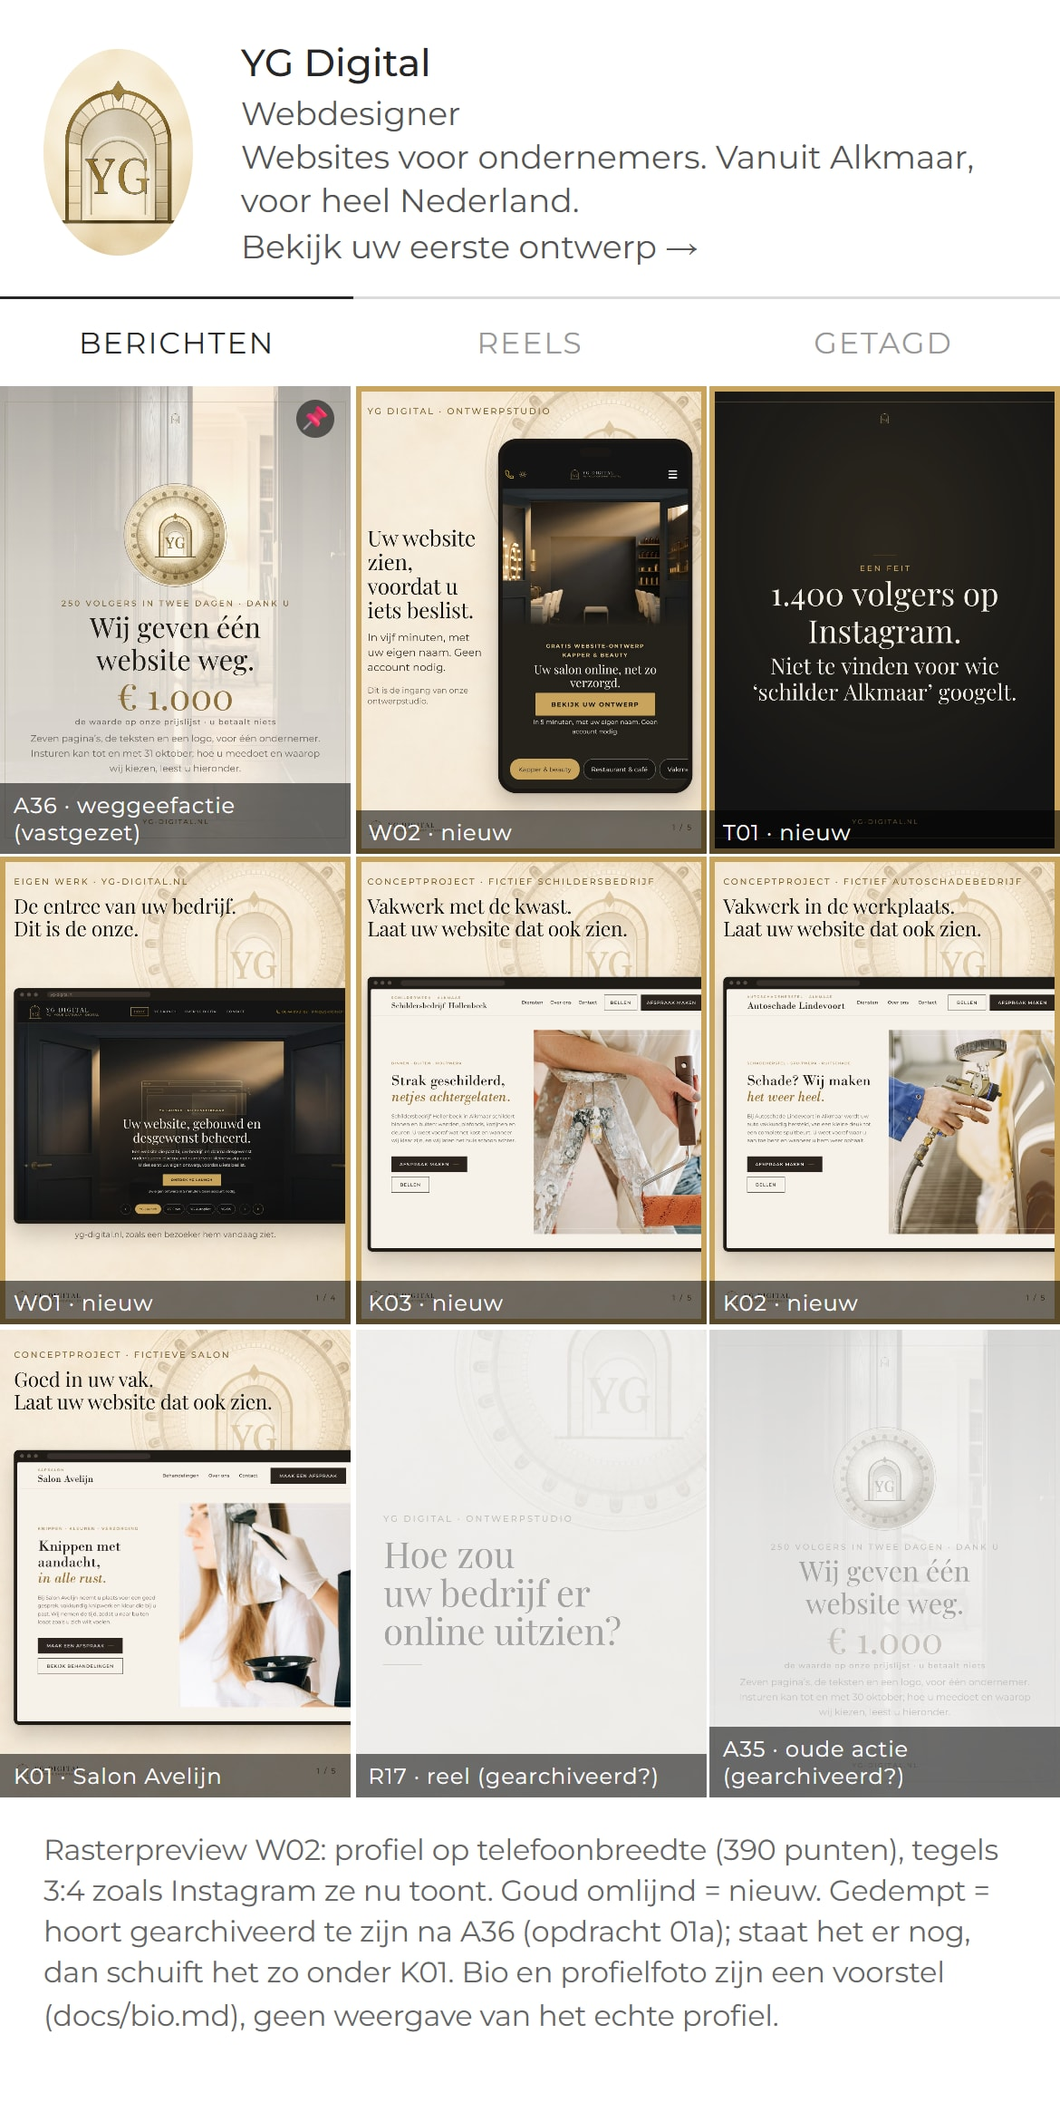
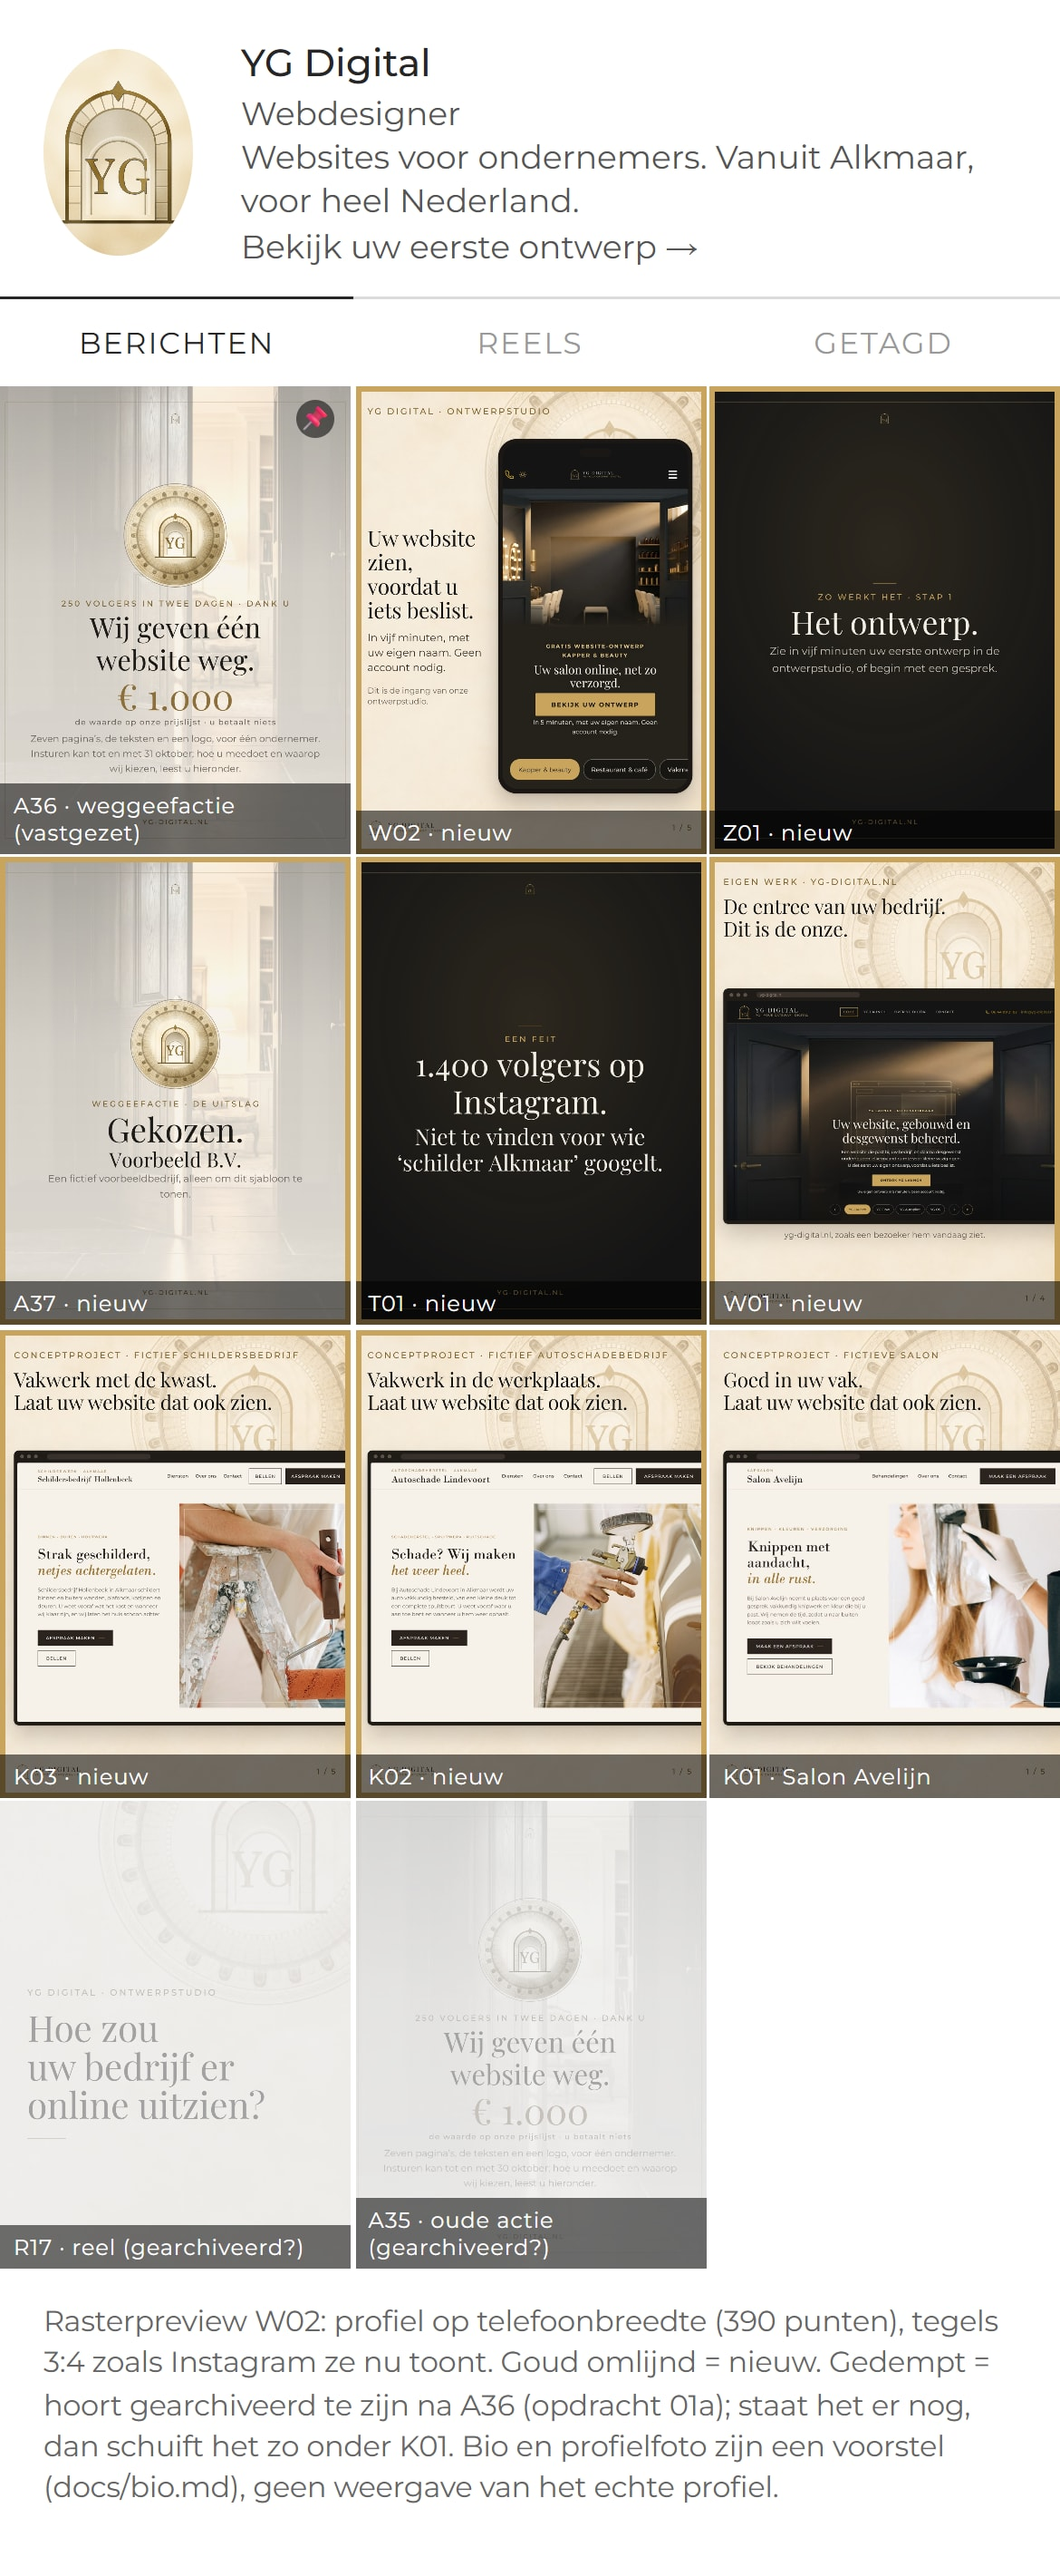
Pakket Z01 (zo werkt het, de prijs) klaar voor "pakket OK" — wo 4 nov; A37-sjabloon bekendmaking (plaatshouder, niet inplannen)
Z01: vier platen goud op donker (tekenmachine) met de bevestigde bedragen
(€ 750 excl. btw / € 907,50 incl.; beheer € 49/mnd excl. btw / € 59,29 incl.;
hosting rechtstreeks bij JouwWeb). Sitecontrole 25 okt 19:30: beheer staat op
de site nog als € 45 incl. btw; opnieuw controleren op de plaatsingsdag.
A37: vier platen in A36-stijl uit bron/gekozen.txt via maak-a37.cjs (maakt ook
bijschrift en alt-teksten, weigert win-woorden); nu met plaatshouder.
Proeven met plan-carrousel.cjs slagen; planning.json niet aangeraakt.
Rasters A37/Z01/W02 en docs bijgewerkt.

diff --git a/docs/oplevering-manon.md b/docs/oplevering-manon.md
@@ -6,4 +6,4 @@ Eén regel per sessie: datum · gedaan · open · vragen. Details per pakket sta
 |---|---|---|---|
 | wo 21 okt | §1 van opdracht 01: oud werk vorige sessie gecommit (`2ef0cd0`: poort-omslagen, profielfoto-module, highlightplaat Entree 1; grote bronbestanden in `.gitignore`). Pakket K02 Autoschade Lindevoort (fictief) gemaakt en gepusht (`976e248`), proef geslaagd, `preview/raster-K02.jpg`, `gereedschap/raster-preview.cjs` (nieuw), `docs/bio.md` (twee varianten), `docs/oplevering-01.md`. Gemeld: "pakket K02 klaar". | Inplannen K02 wacht op OK. `docs/highlights.md` nog niet. | — |
 | do 22 okt | "Pakket OK voor K02" van Andries in mijn sessie → K02 ingepland vr 23 okt 19:00 (`f17231f`). Pakket K03 Schildersbedrijf Hollenbeek (fictief) gemaakt en gepusht (`f8f6064`), gemeld "pakket K03 klaar"; daarna **"Pakket OK voor K03. Plan hem in voor maandag 26 oktober 19:00, commit en push." van Andries in mijn sessie** → K03 ingepland (`d383968`). Pakket W01 entree van yg-digital.nl gemaakt en gepusht (`cd5dc10`): vier platen met echte schermafdrukken, proef geslaagd, `preview/raster-W01.jpg`. Gemeld: "pakket W01 klaar". Crew-kop van Eva gelezen (`0117bfe`); dit logboek opgezet. Later die avond: **"Pakket OK voor W01" van Andries in mijn sessie** → W01 ingepland wo 28 okt 19:00 (`5a6a09f`). Pakket T01 (feit, twee platen goud op donker, tekenmachine) gemaakt en gepusht, proef geslaagd, `preview/raster-T01.jpg`. Gemeld: "pakket T01 klaar". Daarna **"Pakket OK voor T01. Plan hem in voor vrijdag 30 oktober 19:00, commit en push." van Andries in mijn sessie** → T01 ingepland vr 30 okt 19:00. Batch 1 staat daarmee volledig in de planning. | `docs/highlights.md` nog niet. Na vr 23, ma 26 en wo 28 okt 19:00: `gedaan.json` controleren en "geplaatst" melden met mediaId. Batch 2: planning van Eva afwachten. |
-| zo 25 okt | **K02 geplaatst** vr 23 okt 20:08, media-id 18140360860622623 (`gedaan.json`, commit `16e0c92` van de automaat). **T01 gecorrigeerd** op akkoord van Andries via Kantoor, 25 okt 13:37: "T01 akkoord" — kop plaat 1 nu "1.400 volgers op Instagram. Niet te vinden voor wie ‘schilder Alkmaar’ googelt.", bijschrift regel 1 en #kapper → #schilder, alt-tekst 1, `beeld/berichten/nl/T01-1.jpg` overschreven, planningsitem (titel, tekst, alt[0]) bijgewerkt, raster vernieuwd; datum, tijd en beelden ongewijzigd. Daarna **pakket W02** (ontwerpstudio, vijf platen met echte schermafdrukken van de studio-route) gemaakt en gepusht, proef geslaagd, `preview/raster-W02.jpg`. Gemeld: "pakket W02 klaar". | K03 ma 26 okt 19:00, W01 wo 28 okt, T01 vr 30 okt: na plaatsing `gedaan.json` controleren. W02 wacht op "pakket OK W02". Daarna A37-sjabloon en Z01. `docs/highlights.md` na batch 1. | — | **K03:** OPDRACHT-ACTUEEL zegt dat K03 zonder OK is ingepland. Het OK kwam wel: Andries gaf het op 22 okt rechtstreeks in mijn Claude Code-sessie, met code en datum (tekst hierboven; ook in de commit-boodschap van `d383968`). Eva zag die chat niet. Graag bevestigen bij Eva; ik raak K03 niet aan tot Eva of Andries iets zegt. |
+| zo 25 okt | **K02 geplaatst** vr 23 okt 20:08, media-id 18140360860622623 (`gedaan.json`, commit `16e0c92` van de automaat). **T01 gecorrigeerd** op akkoord van Andries via Kantoor, 25 okt 13:37: "T01 akkoord" — kop plaat 1 nu "1.400 volgers op Instagram. Niet te vinden voor wie ‘schilder Alkmaar’ googelt.", bijschrift regel 1 en #kapper → #schilder, alt-tekst 1, `beeld/berichten/nl/T01-1.jpg` overschreven, planningsitem (titel, tekst, alt[0]) bijgewerkt, raster vernieuwd; datum, tijd en beelden ongewijzigd. Daarna **pakket W02** (ontwerpstudio, vijf platen met echte schermafdrukken van de studio-route) gemaakt en gepusht, proef geslaagd, `preview/raster-W02.jpg`. Gemeld: "pakket W02 klaar". Daarna **A37-sjabloon** (vier platen in A36-stijl, `bron/gekozen.txt` + `maak-a37.cjs` maken platen, bijschrift en alt-teksten; plaatshouder Voorbeeld B.V.) en **pakket Z01** (vier platen goud op donker met de bevestigde prijs) gemaakt en gepusht, proeven geslaagd. Sitecontrole Z01 op 25 okt 19:30: € 750 klopt, beheer staat nog op € 45 incl. btw. | K03 ma 26 okt 19:00, W01 wo 28 okt, T01 vr 30 okt: na plaatsing `gedaan.json` controleren. W02 en Z01 wachten op "pakket OK" per code; Z01 pas na een geslaagde sitecontrole op de plaatsingsdag. A37 wacht op naam en waarom-regels van Eva. `docs/highlights.md` na batch 1. | Z01: de site toont nog € 45/mnd incl. btw; wordt die vóór wo 4 nov aangepast naar € 49/mnd excl. btw? | **K03:** OPDRACHT-ACTUEEL zegt dat K03 zonder OK is ingepland. Het OK kwam wel: Andries gaf het op 22 okt rechtstreeks in mijn Claude Code-sessie, met code en datum (tekst hierboven; ook in de commit-boodschap van `d383968`). Eva zag die chat niet. Graag bevestigen bij Eva; ik raak K03 niet aan tot Eva of Andries iets zegt. |

diff --git a/docs/oplevering-01.md b/docs/oplevering-01.md
@@ -143,9 +143,25 @@ Keuzes: naam "Uw bedrijf" (leest als voorbeeld, geen klant), branche Kapper & sa
 
 **Proef:** `node gereedschap/plan-carrousel.cjs pakketten/2026-11-06-W02-ontwerpstudio 2026-11-06 19:00 W02 --proef` slaagt zonder STOP (5 platen, 554 tekens, 9 hashtags, alt 357/212/235/208/213). `preview/raster-W02.jpg` toont het raster met batch 1 en W02.
 
+### A37-sjabloon · bekendmaking weggeefactie — 25 okt (sjabloon, niet inplannen)
+
+Map: `pakketten/2026-11-02-A37-bekendmaking/`. Vier platen in de stijl van A36 (lichte deur met ivoren waas, rond medaillonzegel, goud, poortembleem), gemaakt met de tekenmachine en het zegel uit `platen/actie.cjs`. **Eén tekstbestand stuurt alles:** `bron/gekozen.txt` (naam · wat · waarom1–3 · waaromkort); `node bron/maak-a37.cjs` maakt daaruit de vier platen, `bijschrift.txt` en `beeldbeschrijvingen.txt`, telt de woorden (nu 74) en weigert verboden woorden (win, winnaar, kans, trekking …). Nu staat er de plaatshouder "Voorbeeld B.V."; het script meldt dat zelf. Het definitieve pakket op zo 1 of ma 2 nov: naam en regels van Eva in `gekozen.txt`, script draaien, raster, proef, push, "pakket A37 klaar", wachten op OK.
+
+1. "Gekozen." + naam + wat het bedrijf doet · 2. "Wat de doorslag gaf." met de drie waarom-regels en de vier punten uit A36 · 3. "Van ontwerp naar live." (eerste ontwerp binnen 48 uur · bouw: zeven pagina’s, teksten, logo · live, en wij laten het hier zien) · 4. "Vrijblijvend, via de link in onze bio." (iedereen die meedeed krijgt een eerste ontwerp).
+
+Bijschrift: dank, wie gekozen is en waarom in één bijzin, wat de ondernemer krijgt (alleen wat A36 beloofde), "iedereen die meedeed krijgt een eerste ontwerp, vrijblijvend", de link in de bio; hashtags de vijf vaste + #ondernemen #mkb #kleinbedrijf. Proef met plan-carrousel slaagt (4 platen, 8 hashtags).
+
+### Pakket Z01 · zo werkt het — 25 okt (de enige post met een prijs)
+
+Map: `pakketten/2026-11-04-Z01-zo-werkt-het/`. Vier platen goud op donker (tekenmachine, zoals T01): (1) Het ontwerp · (2) Gesprek en offerte · (3) De prijs: **€ 750 eenmalig excl. btw (€ 907,50 incl.)** voor ontwerp en bouw; beheer optioneel **€ 49 per maand excl. btw (€ 59,29 incl.)** voor technisch onderhoud en updates, back-ups en tot dertig minuten kleine tekst- en fotowijzigingen per maand; hosting regelt en betaalt u rechtstreeks bij JouwWeb, zonder opslag · (4) Bouw en live: u kijkt mee, twee gebundelde feedbackrondes, daarna live en bij beheer onderhouden vanaf de oplevering. Bijschrift 78 woorden met dezelfde bedragen, nooit "hosting inbegrepen"; hashtags de vijf vaste + #watkosteenwebsite #vasteprijs #websitekosten #zowerkthet. Proef: `node gereedschap/plan-carrousel.cjs pakketten/2026-11-04-Z01-zo-werkt-het 2026-11-04 19:00 Z01 --proef` slaagt.
+
+**Sitecontrole (I4).** `yg-digital.nl/yg-launch` gelezen op **zo 25 okt 2026, 19:30**: € 750 excl. btw (€ 907,50 incl.) klopt; het beheer staat er nog als **€ 45 per maand inclusief btw (€ 37,19 exclusief)**, niet als € 49 excl. btw. Z01 volgt het besluit van Andries (23 okt 17:14). Vóór het inplannen en op wo 4 nov vóór 19:00 controleer ik de site opnieuw; staat er dan nog € 45, dan wordt Z01 niet geplaatst en meld ik het.
+
+`preview/raster-A37.jpg`, `preview/raster-Z01.jpg` en `preview/raster-W02.jpg` tonen hetzelfde raster met batch 1 en de drie pakketten van batch 2 in plaatsingsvolgorde (A37 · Z01 · W02).
+
 ## Nog te doen
 
 1. K03 (ma 26 okt), W01 (wo 28 okt), T01 (vr 30 okt): na 19:00 `git pull`, `gedaan.json` controleren, "geplaatst" in het logboek met media-id.
-2. W02: "pakket OK W02" van Andries → inplannen vr 6 nov 19:00, OK-citaat in logboek en commit.
-3. A37-sjabloon (ma 2 nov) en Z01 (wo 4 nov) volgens `docs/opdracht-02.md`; K04 en T02 na OPDRACHT-ACTUEEL.
-4. §4: `docs/highlights.md` na batch 1; de vier omslagen zijn klaar.
+2. W02 en Z01: "pakket OK" per code van Andries → inplannen (vr 6 nov, wo 4 nov), OK-citaat in logboek en commit. Z01 pas na een geslaagde sitecontrole.
+3. A37: naam en waarom-regels van Eva in `bron/gekozen.txt`, script draaien, pushen, "pakket A37 klaar".
+4. K04 en T02 na OPDRACHT-ACTUEEL; §4 `docs/highlights.md` na batch 1.
